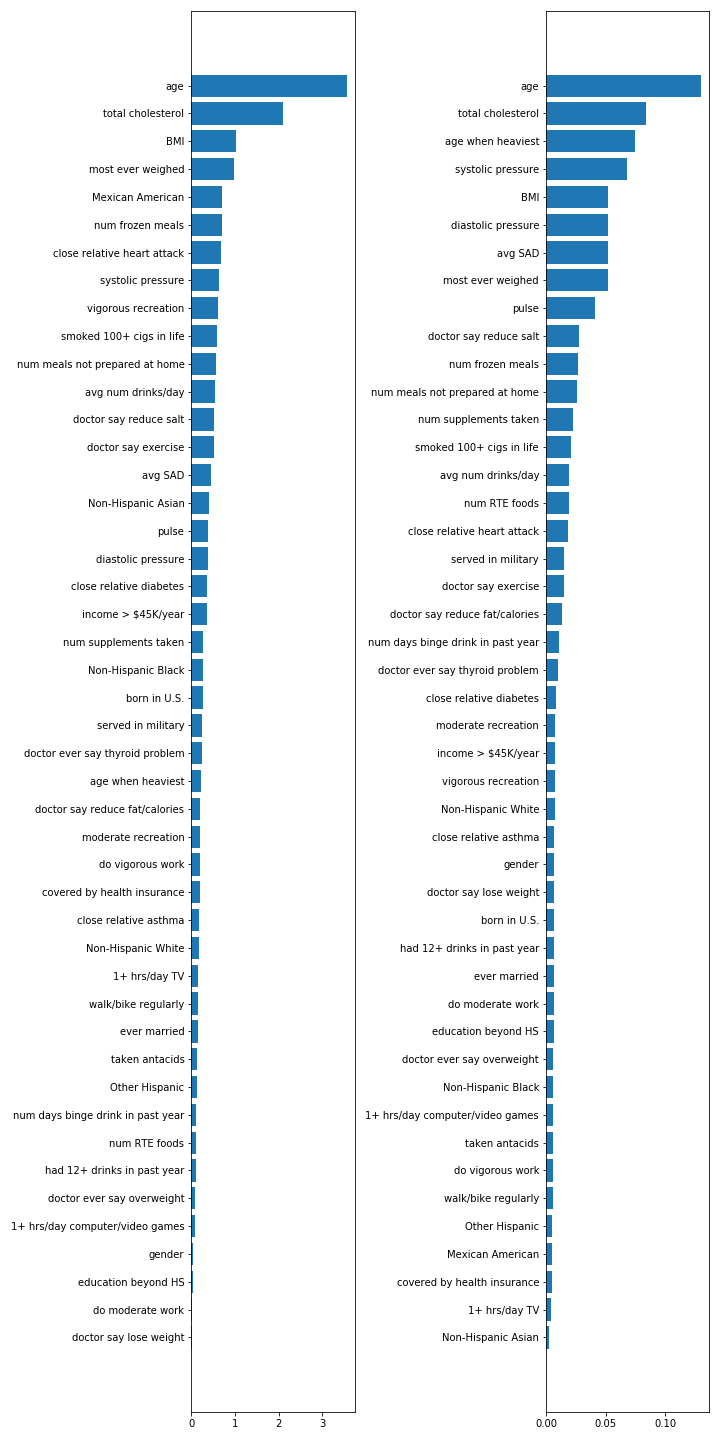
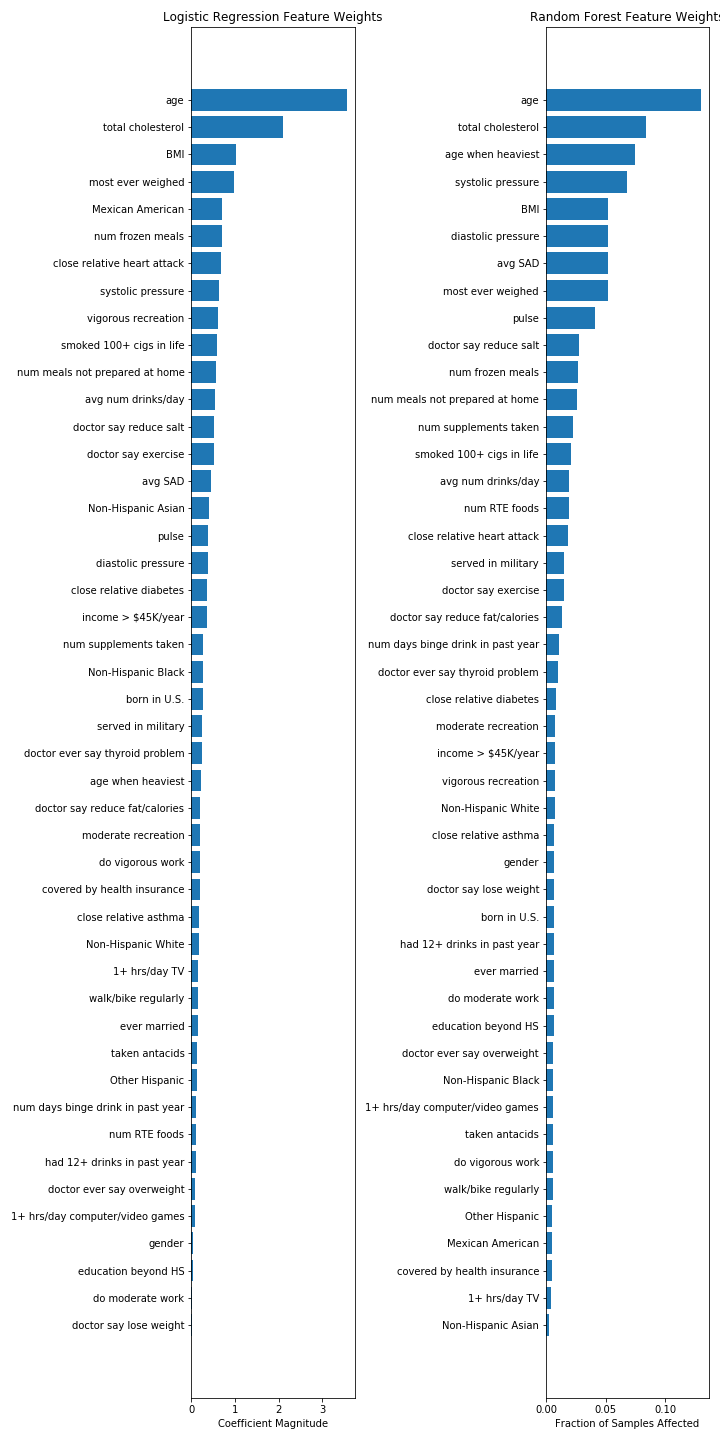
Update README images and info on plots

diff --git a/README.md b/README.md
@@ -38,11 +38,12 @@ After all data cleaning and feature engineering was completed, the following mod
 
 ## Results
 
+![ROC curves for applied models](img/roc_comparison.png)
 
-![Confusion matrices at different thresholds for logistic regression](img/logistic_confusion_matrix.png)
 
-![Feature comparison between logistic and RF](img/feature_importance.png)
+![Confusion matrices at different thresholds for logistic regression](img/log_cf.png) ![Confusion matrices at different thresholds for MLP Classifier](img/mlp_cf.png)
 
-Generated feature importance plot from Random Forest.
+
+
 
 ![Feature comparison between logistic and RF](img/feature_importance.png)
